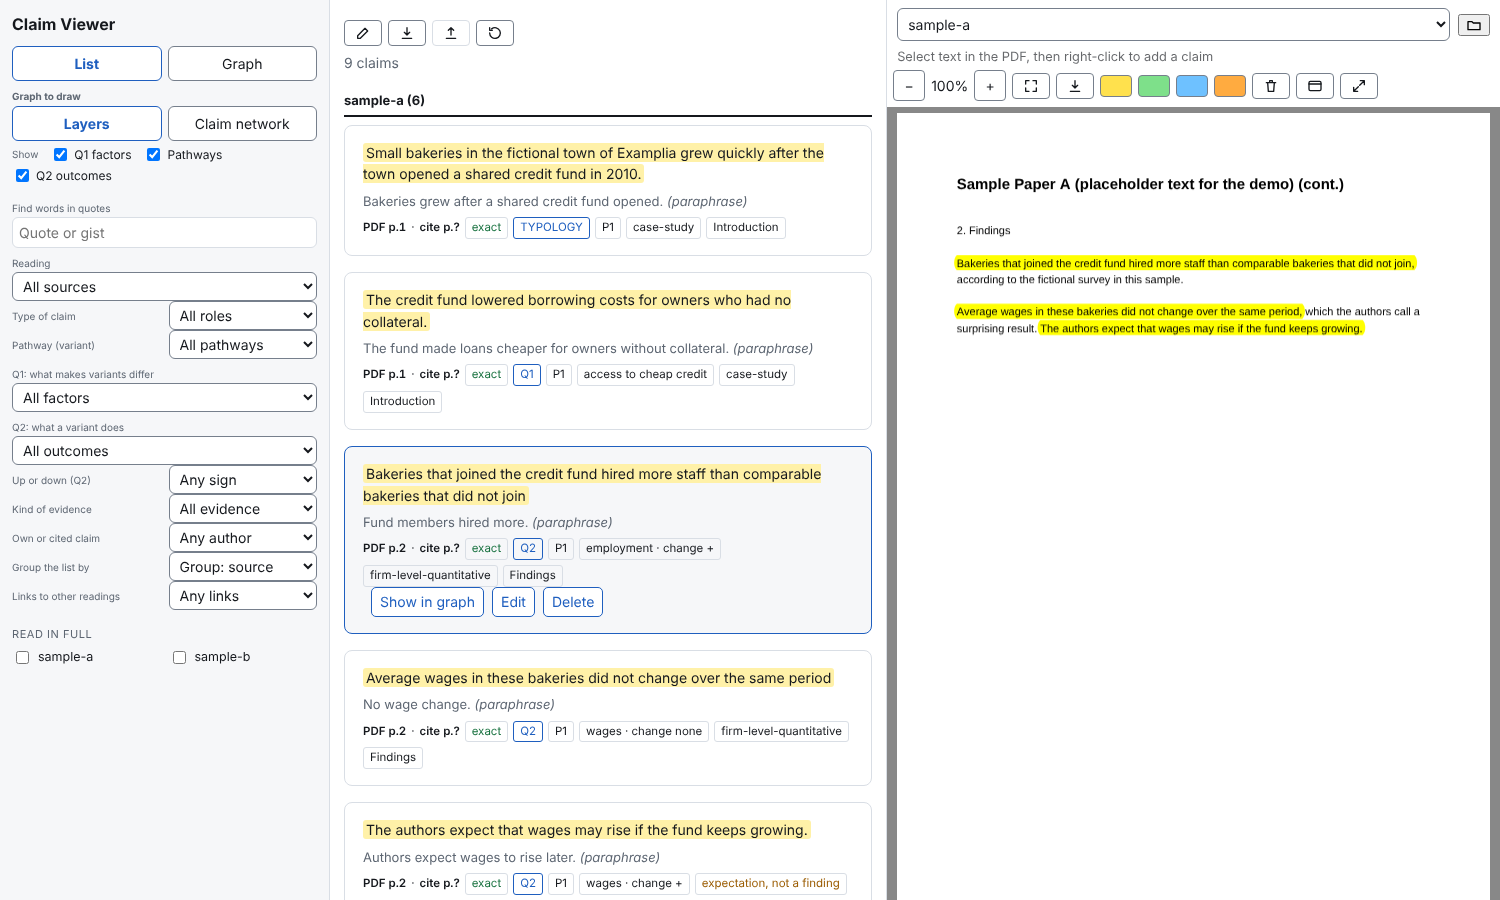
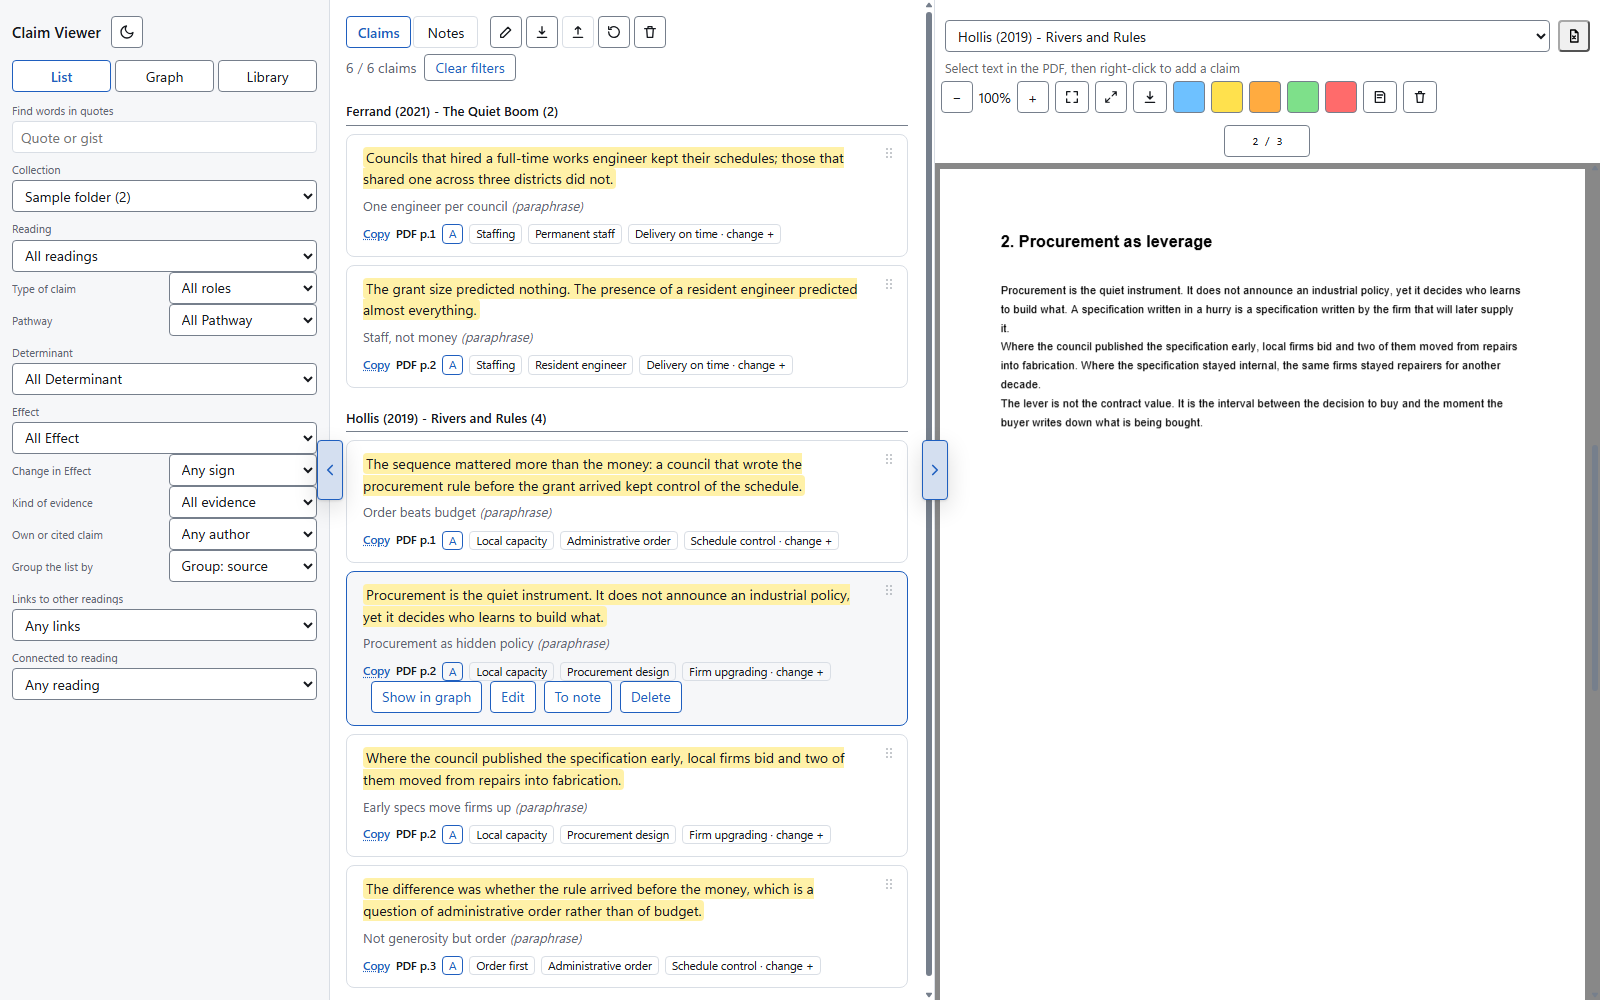
Update the Claim Viewer description and screenshot (#2)
The project now also has notes, a library with folders, links between
claims across readings, and fully offline PDF reading, so the card says
so. The screenshot is the light-theme list view of the current build.
Wording follows the project README.

Claude-Session: https://claude.ai/code/session_01CdCDasnVM5SSCktiveuzLZ

Changed region(s): [[0.0, 0.0, 1.0, 1.0], [0.9507, 0.0, 1.0, 0.0622], [0.1227, 0.7156, 0.1533, 0.7467]]

diff --git a/side-projects.html b/side-projects.html
@@ -12,14 +12,15 @@ redirect_from:
 <div class="panels">
   <article class="project project--link">
     <h3><a href="https://github.com/abd-azzam/Claim-Viewer" target="_blank" rel="noopener noreferrer">Claim Viewer</a></h3>
-    <p class="meta">A PDF reader for claims. Windows app, or any Chromium browser. MIT licensed.</p>
-    <p>Zotero keeps my PDFs and highlights, but it doesn't draw how the claims across my readings connect, and I didn't want to keep switching back to Obsidian while reading. So this does the reading, the tagging and the graph in one place: select a passage, save it as a claim, tag it by pathway, cause, outcome and direction, then see the claims laid out as a graph.</p>
-    <p>It runs on your own computer, so your PDFs and claims are never uploaded. Built with Claude Code, under my supervision.</p>
+    <p class="meta">A PDF reader for claims and notes. Windows app, or any Chromium browser. MIT licensed.</p>
+    <p>Zotero keeps my PDFs and highlights, but it doesn't draw how the claims across my readings connect, and it has no place for my own reading notes. So this does the reading, the tagging, the notes and the graph in one place.</p>
+    <p>Select a passage and save it as a claim, tag it, and link it to claims in other readings. Write Zettelkasten-style notes under nested tags, file your PDFs in folders the way Zotero does, and see how it all fits together as a graph.</p>
+    <p>It runs on your own computer, so your PDFs, claims and notes are never uploaded. The only thing that goes online is an optional dictionary lookup of a single word. Built with Claude Code, under my supervision.</p>
     <figure class="shot">
       <img src="{{ '/assets/images/claim-viewer.png' | relative_url }}"
            alt="Claim Viewer showing a list of tagged claims next to the PDF, with the quoted passages highlighted on the page"
-           width="1500" height="900" loading="lazy" />
-      <figcaption>The two &ldquo;papers&rdquo; here are invented placeholder text.</figcaption>
+           width="1600" height="1000" loading="lazy" />
+      <figcaption>The papers, their text and their claims here are invented.</figcaption>
     </figure>
     <p class="open" aria-hidden="true">Open on GitHub &rarr;</p>
   </article>
